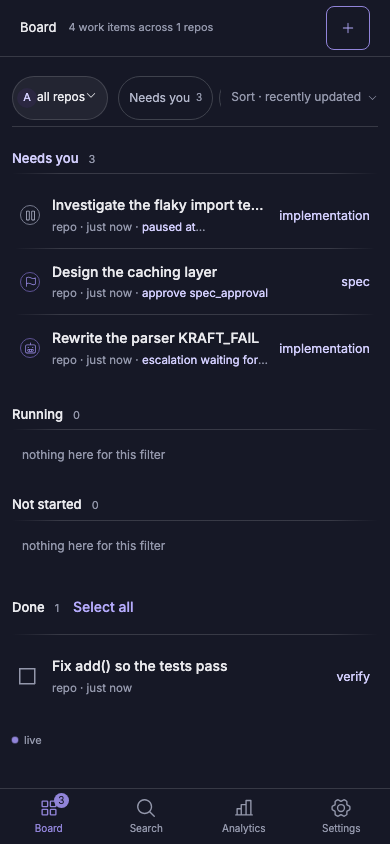
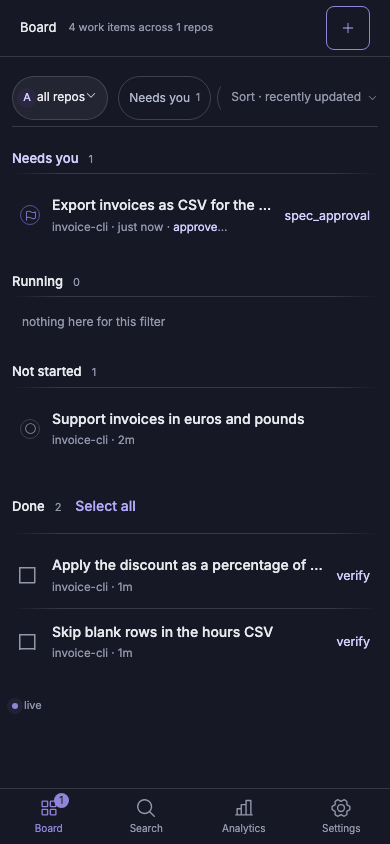
Screenshots from a real run
The board, gate, search and phone screenshots were test fixtures (items
titled KRAFT_FAIL, a repo named repo, a fake-agent log). They are now
taken from a real run on a small demo repo: two quick-task items that
finished, one default item stopped at its spec gate with the spec the
agent wrote, and one not started. The gate image is the item's detail
view with that spec, not the side panel. Alt text no longer names
internal node ids, and the gate captions say you read what the agent
wrote before you approve.

diff --git a/docsite/content/index.md b/docsite/content/index.md
@@ -42,11 +42,11 @@ orientation: horizontal
 ::u-page-section
 ---
 title: A gate stops the chain where a human decides
-description: Approve, reject with a note that re-runs the node that wrote the document, or open the full detail view.
+description: Read what the agent wrote, then approve, or reject with a note that re-runs the node that wrote it.
 orientation: horizontal
 reverse: true
 ---
-![Approving a spec_approval gate from the board's side panel](/assets/gate.png)
+![A spec an agent wrote, waiting for your approval in the item's detail view](/assets/gate.png)
 ::
 
 ::u-page-section
@@ -55,7 +55,7 @@ title: Search, ⌘K
 description: Full-text search, with optional vector search, across work items, pending actions, and linked documents.
 orientation: horizontal
 ---
-![The search overlay: a query for "caching" surfacing a pending gate action, the matching work item, and a source-repo attribution](/assets/search.png)
+![The search overlay: a query for "CSV" surfacing a pending approval, the matching work items, and agent session summaries](/assets/search.png)
 ::
 
 ::u-page-section

diff --git a/README.md b/README.md
@@ -33,10 +33,10 @@ New here? [Why Kraft](https://itsomidkarami.github.io/kraft/get-started/why-kraf
 <tr>
 <td width="65%">
 
-**A gate stops the chain where a human decides.** Approve, reject with a note
-that re-runs the producing node, or open the full detail view.
+**A gate stops the chain where a human decides.** Read what the agent wrote,
+then approve, or reject with a note that re-runs the node that wrote it.
 
-![Approving a spec_approval gate from the board's side panel](.github/assets/gate.png)
+![A spec an agent wrote, waiting for your approval in the item's detail view](.github/assets/gate.png)
 
 </td>
 <td width="35%">

diff --git a/docsite/content/1.get-started/2.first-work-item.md b/docsite/content/1.get-started/2.first-work-item.md
@@ -187,7 +187,7 @@ the nodes still to run and proposes changes to them, and when it proposes none,
 which is usual, the gate passes without asking you. Each gate shows up under
 *Needs you* on the board:
 
-![Approving a spec_approval gate from the board's side panel](/assets/gate.png)
+![A spec an agent wrote, waiting for your approval in the item's detail view](/assets/gate.png)
 
 ```bash
 kraft view artifact ID     # read the document the gate is about
